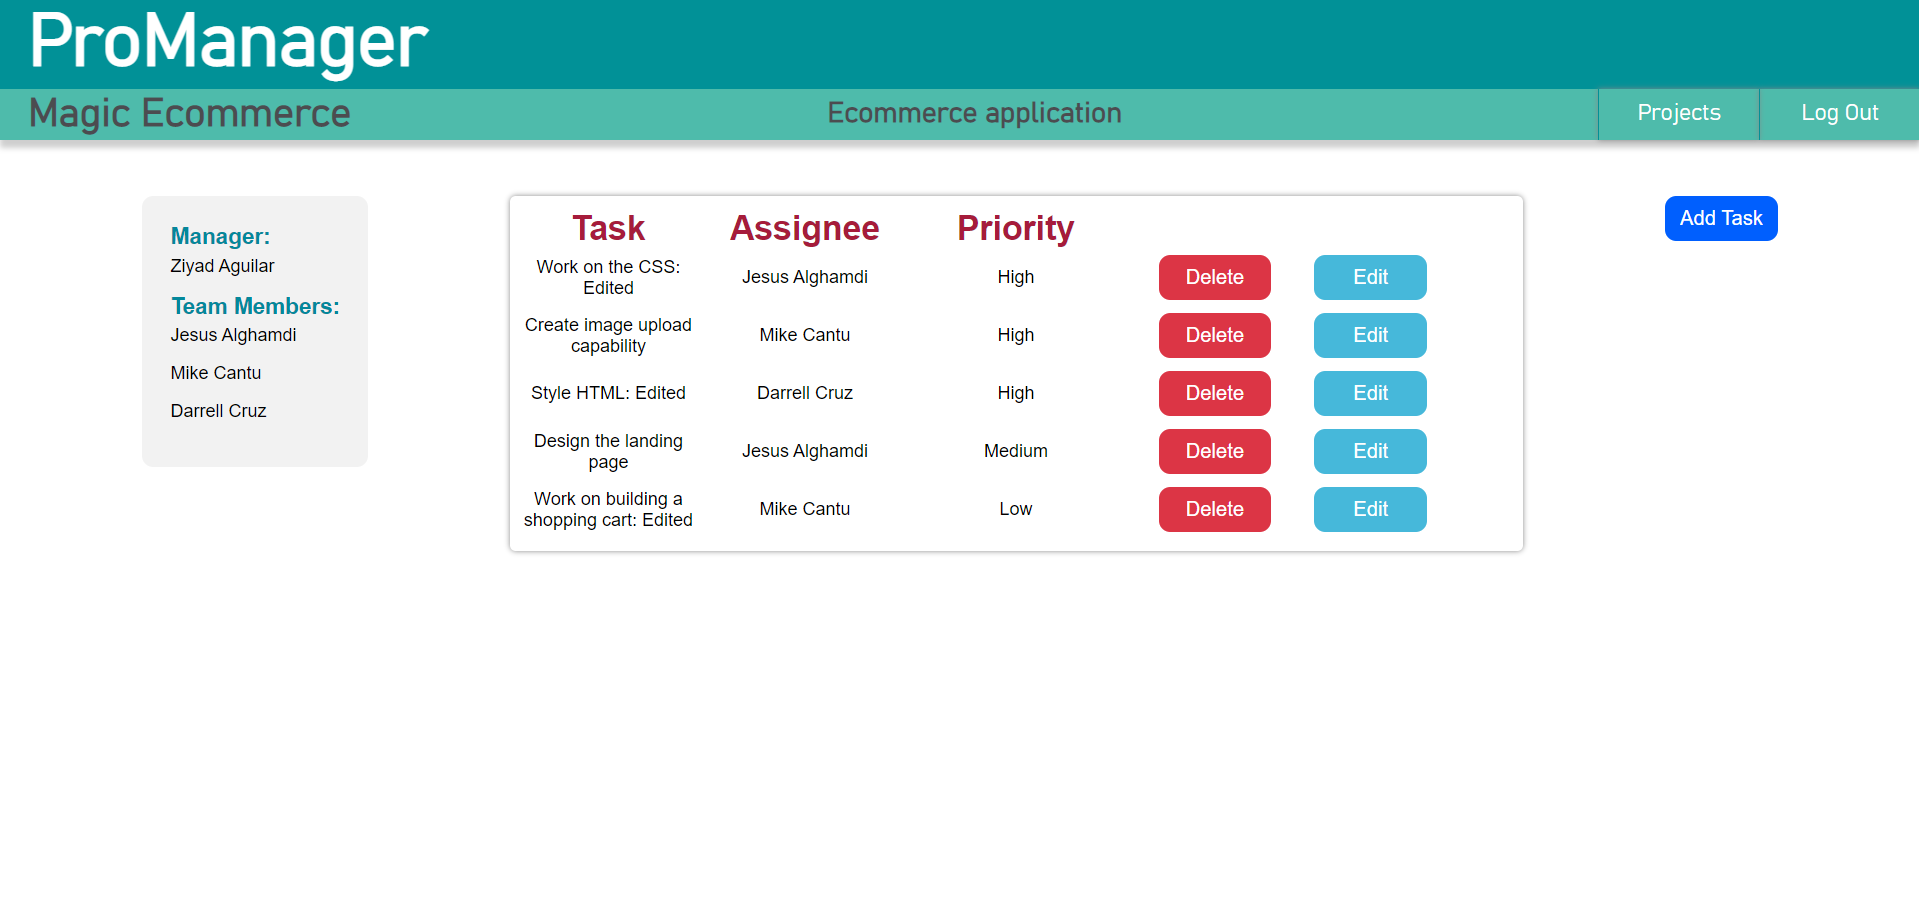
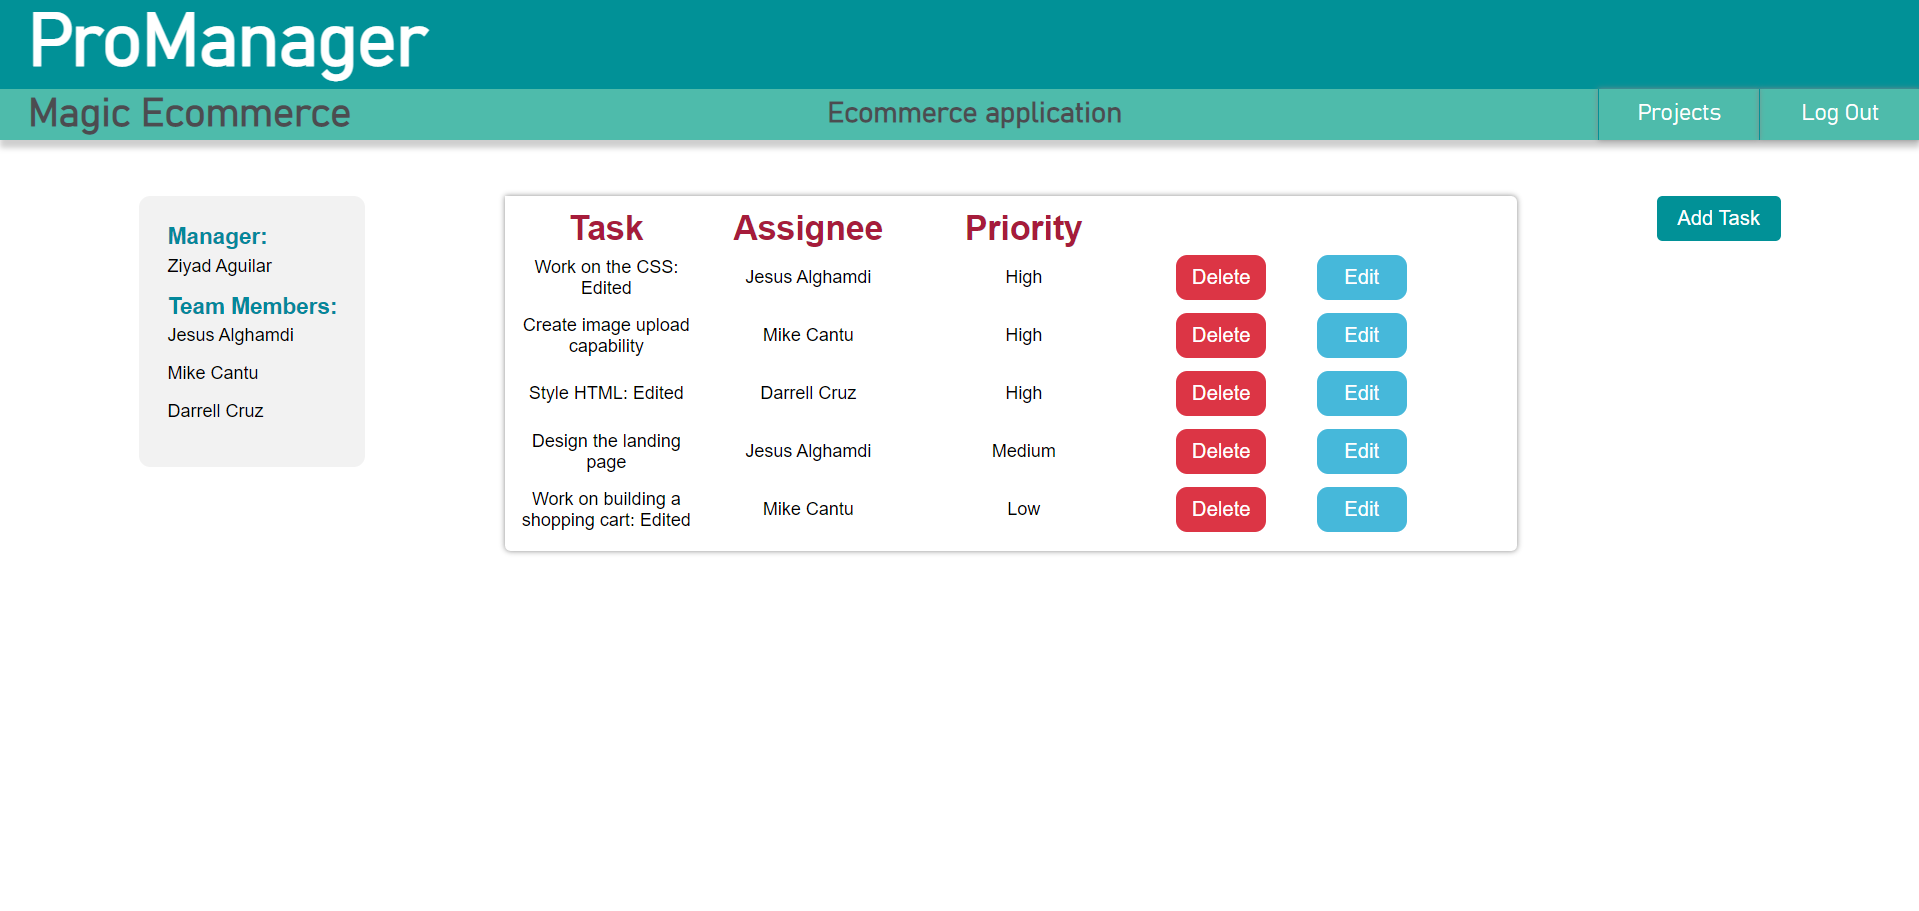
Updated CSS file for Project Info page

diff --git a/Java_Stack/Java_Spring/ProjectManager/projectmanager/src/main/resources/static/css/projectinfo.css b/Java_Stack/Java_Spring/ProjectManager/projectmanager/src/main/resources/static/css/projectinfo.css
@@ -108,7 +108,7 @@
 	vertical-align: middle;
 }
 
-#newLink {
+#newLink, #addTask {
 	background-color: rgb(1,145,151);
 	color: white;
 	font-size: 18px;
@@ -118,6 +118,10 @@
 	border: none;
 	cursor: pointer;
 
+}
+
+#addTask {
+	border-radius: 5px 5px 5px 5px;
 }
 
 #team {
